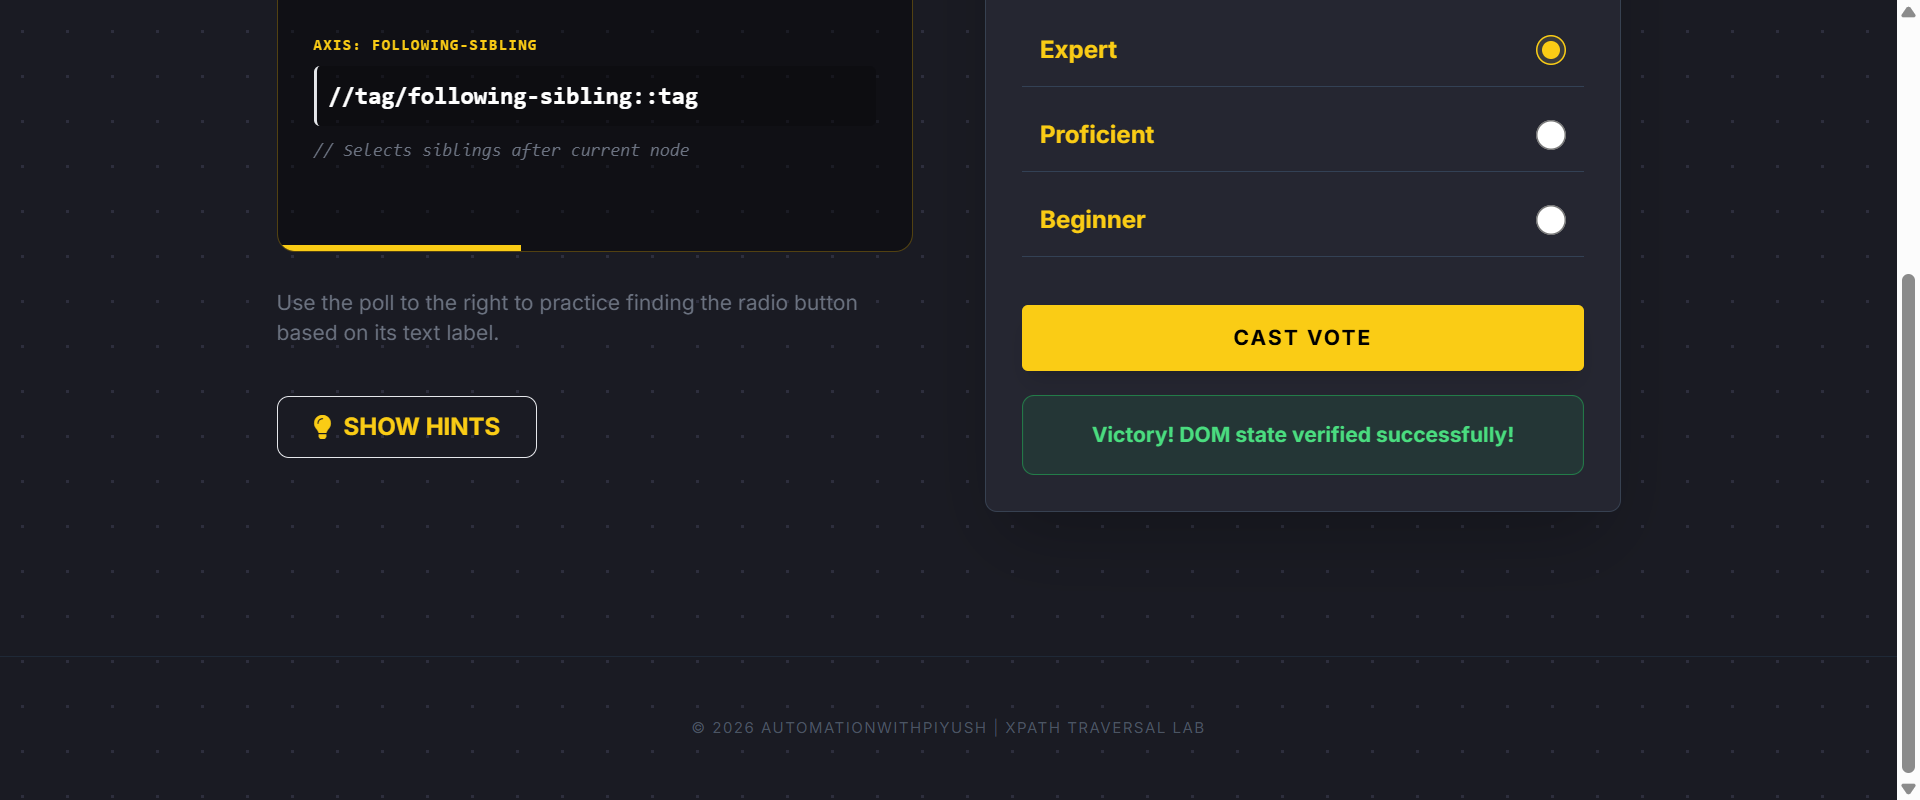
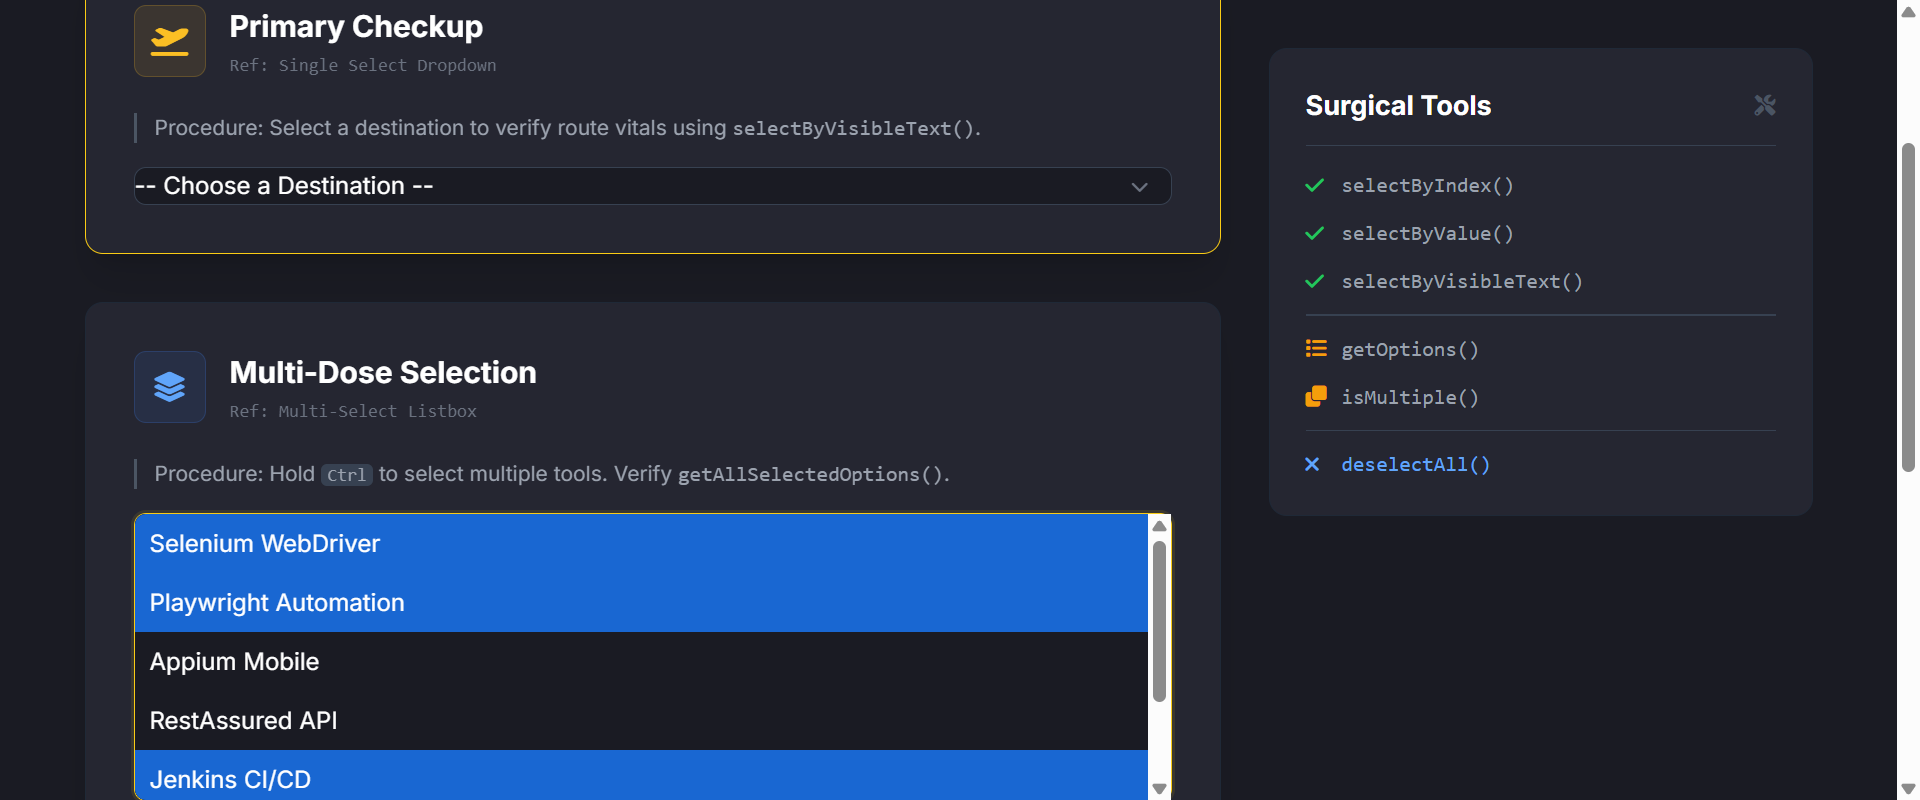
Practice Dropdown and ss

diff --git a/seleniumjava/src/test/java/Dropdown_Practice/Practice2.java b/seleniumjava/src/test/java/Dropdown_Practice/Practice2.java
@@ -1,0 +1,65 @@
+package Dropdown_Practice;
+
+import java.io.File;
+import java.io.IOException;
+import java.time.Duration;
+import java.util.List;
+
+import org.openqa.selenium.By;
+import org.openqa.selenium.OutputType;
+import org.openqa.selenium.TakesScreenshot;
+import org.openqa.selenium.WebDriver;
+import org.openqa.selenium.WebElement;
+import org.openqa.selenium.chrome.ChromeDriver;
+import org.openqa.selenium.io.FileHandler;
+import org.openqa.selenium.support.ui.Select;
+
+public class Practice2 {
+
+	public static void main(String[] args) throws IOException {
+		
+		
+WebDriver driver = new ChromeDriver();
+		
+		driver.manage().window().maximize();
+		
+		driver.manage().timeouts().implicitlyWait(Duration.ofSeconds(15));
+		
+		
+		driver.get("https://automationwithpiyush.vercel.app/dropdown.html");
+		
+		
+	
+		WebElement multiDD = driver.findElement(By.id("multi-select"));
+		
+		Select selMulti = new Select(multiDD);
+		
+		selMulti.selectByVisibleText("Playwright Automation");
+		selMulti.selectByVisibleText("Selenium WebDriver");
+		selMulti.selectByVisibleText("Jenkins CI/CD");
+		
+		
+		List <WebElement> allOption = selMulti.getAllSelectedOptions();
+		
+		for(WebElement allOptions:allOption) {
+			
+		    String getText = allOptions.getText();
+		    
+		    System.out.println(getText);
+		
+		}
+		
+	
+		TakesScreenshot tks = (TakesScreenshot) driver;
+		File source = tks.getScreenshotAs(OutputType.FILE);
+		String  realPath = "./errorshots/dummy.png";
+		File destination = new File(realPath);
+		FileHandler.copy(source, destination);
+		
+		
+		
+		
+		
+	}
+
+}

diff --git a/seleniumjava/src/test/java/TakaScreenShot/PracticeScreenshot.java b/seleniumjava/src/test/java/TakaScreenShot/PracticeScreenshot.java
@@ -1,0 +1,68 @@
+package TakaScreenShot;
+
+import java.io.File;
+import java.io.IOException;
+import java.time.Duration;
+
+import org.openqa.selenium.OutputType;
+import org.openqa.selenium.TakesScreenshot;
+import org.openqa.selenium.WebDriver;
+import org.openqa.selenium.chrome.ChromeDriver;
+import org.openqa.selenium.io.FileHandler;
+
+
+public class PracticeScreenshot {
+	
+	
+//	public String toString() {
+//		 
+//		return null;
+//		
+//	}
+	
+	
+
+	public static void main(String[] args) throws IOException{
+		
+		
+		WebDriver driver = new ChromeDriver();
+		driver.manage().window().maximize();
+		driver.manage().timeouts().implicitlyWait(Duration.ofSeconds(10));
+		
+		
+		driver.get("https://automationwithpiyush.vercel.app/index.html");
+		
+		
+// 1. downcast
+		
+		
+		TakesScreenshot tks = (TakesScreenshot)driver;
+
+//2. take the screenshot in file format		
+		
+		File source = tks.getScreenshotAs(OutputType.FILE);
+		
+//3. create the java representation object of physical file
+		
+		String realPath = "./errorshots/dummy.png";
+		File destination = new File(realPath);
+
+		
+//4. Copy that content to the dummy file....		
+		
+		FileHandler.copy(source, destination);
+		
+		
+		
+		
+		
+		
+		
+		
+		
+		
+		
+
+	}
+
+}

diff --git a/seleniumjava/src/test/java/Dropdown_Practice/Practice1.java b/seleniumjava/src/test/java/Dropdown_Practice/Practice1.java
@@ -1,0 +1,44 @@
+package Dropdown_Practice;
+
+import java.time.Duration;
+import java.util.List;
+
+import javax.annotation.processing.SupportedSourceVersion;
+
+import org.openqa.selenium.By;
+import org.openqa.selenium.WebDriver;
+import org.openqa.selenium.WebElement;
+import org.openqa.selenium.chrome.ChromeDriver;
+import org.openqa.selenium.support.ui.Select;
+
+public class Practice1 {
+
+	public static void main(String[] args) {
+		
+		
+		WebDriver driver = new ChromeDriver();
+		driver.manage().window().maximize();
+		driver.manage().timeouts().implicitlyWait(Duration.ofSeconds(10));
+		
+		driver.get("https://automationwithpiyush.vercel.app/dropdown.html");
+		
+		
+		WebElement checkUpDD = driver.findElement(By.id("single-select"));
+		
+		Select selCheckup = new Select(checkUpDD);
+		selCheckup.selectByVisibleText("New York, USA");
+		
+		List<WebElement> allOption =selCheckup.getAllSelectedOptions();
+		
+		for(WebElement options:allOption) {
+			
+			String getText =options.getText();
+			
+			System.out.println(getText);
+			
+			
+		}
+		
+	}
+
+}

diff --git a/seleniumjava/src/test/java/TakaScreenShot/practice1.java b/seleniumjava/src/test/java/TakaScreenShot/practice1.java
@@ -1,0 +1,41 @@
+package TakaScreenShot;
+
+import java.io.File;
+import java.io.IOException;
+import java.time.Duration;
+
+import org.openqa.selenium.OutputType;
+import org.openqa.selenium.TakesScreenshot;
+import org.openqa.selenium.WebDriver;
+import org.openqa.selenium.chrome.ChromeDriver;
+import org.openqa.selenium.io.FileHandler;
+
+public class practice1 {
+
+	public static void main(String[] args) throws IOException {
+
+		
+		WebDriver driver = new ChromeDriver();
+		driver.manage().window().maximize();
+		driver.manage().timeouts().implicitlyWait(Duration.ofSeconds(10));
+		
+		driver.get("https://automationwithpiyush.vercel.app/index.html");
+		
+		
+		
+//1. downcast
+		
+		TakesScreenshot tks = (TakesScreenshot)driver;
+
+		File source = tks.getScreenshotAs(OutputType.FILE);
+
+		String realPath="./errorshots/dummy1.png";
+		
+		File destination = new File(realPath);
+		
+		FileHandler.copy(source, destination);
+		
+
+	}
+
+}
